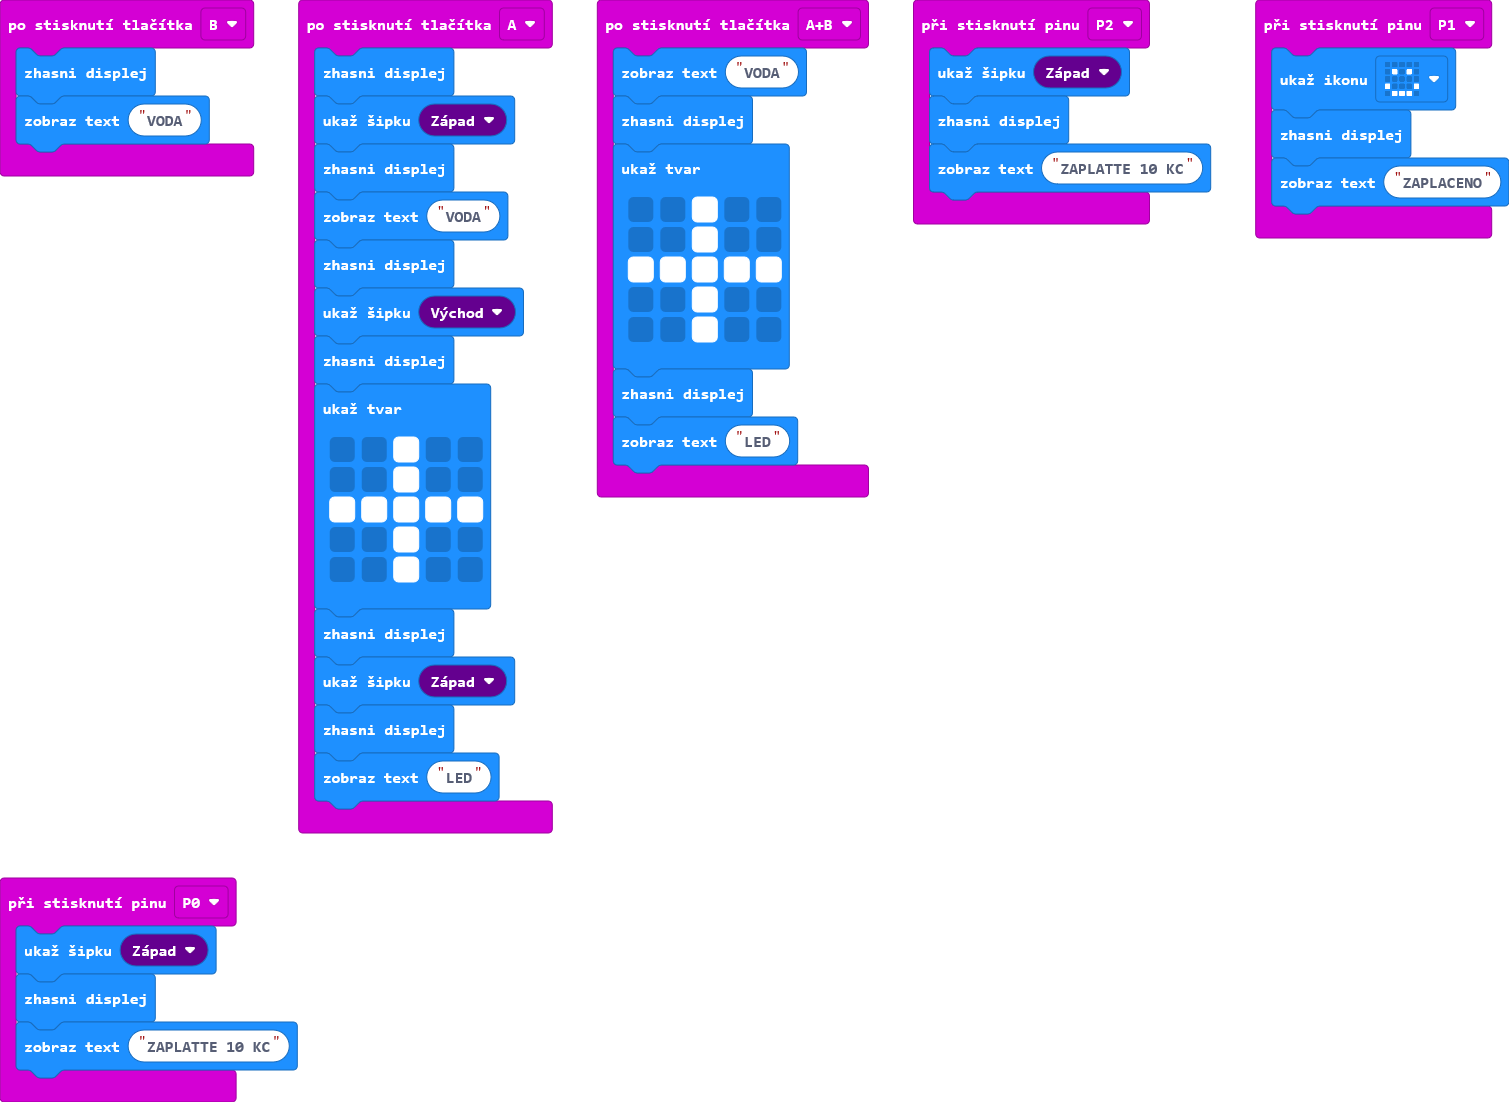
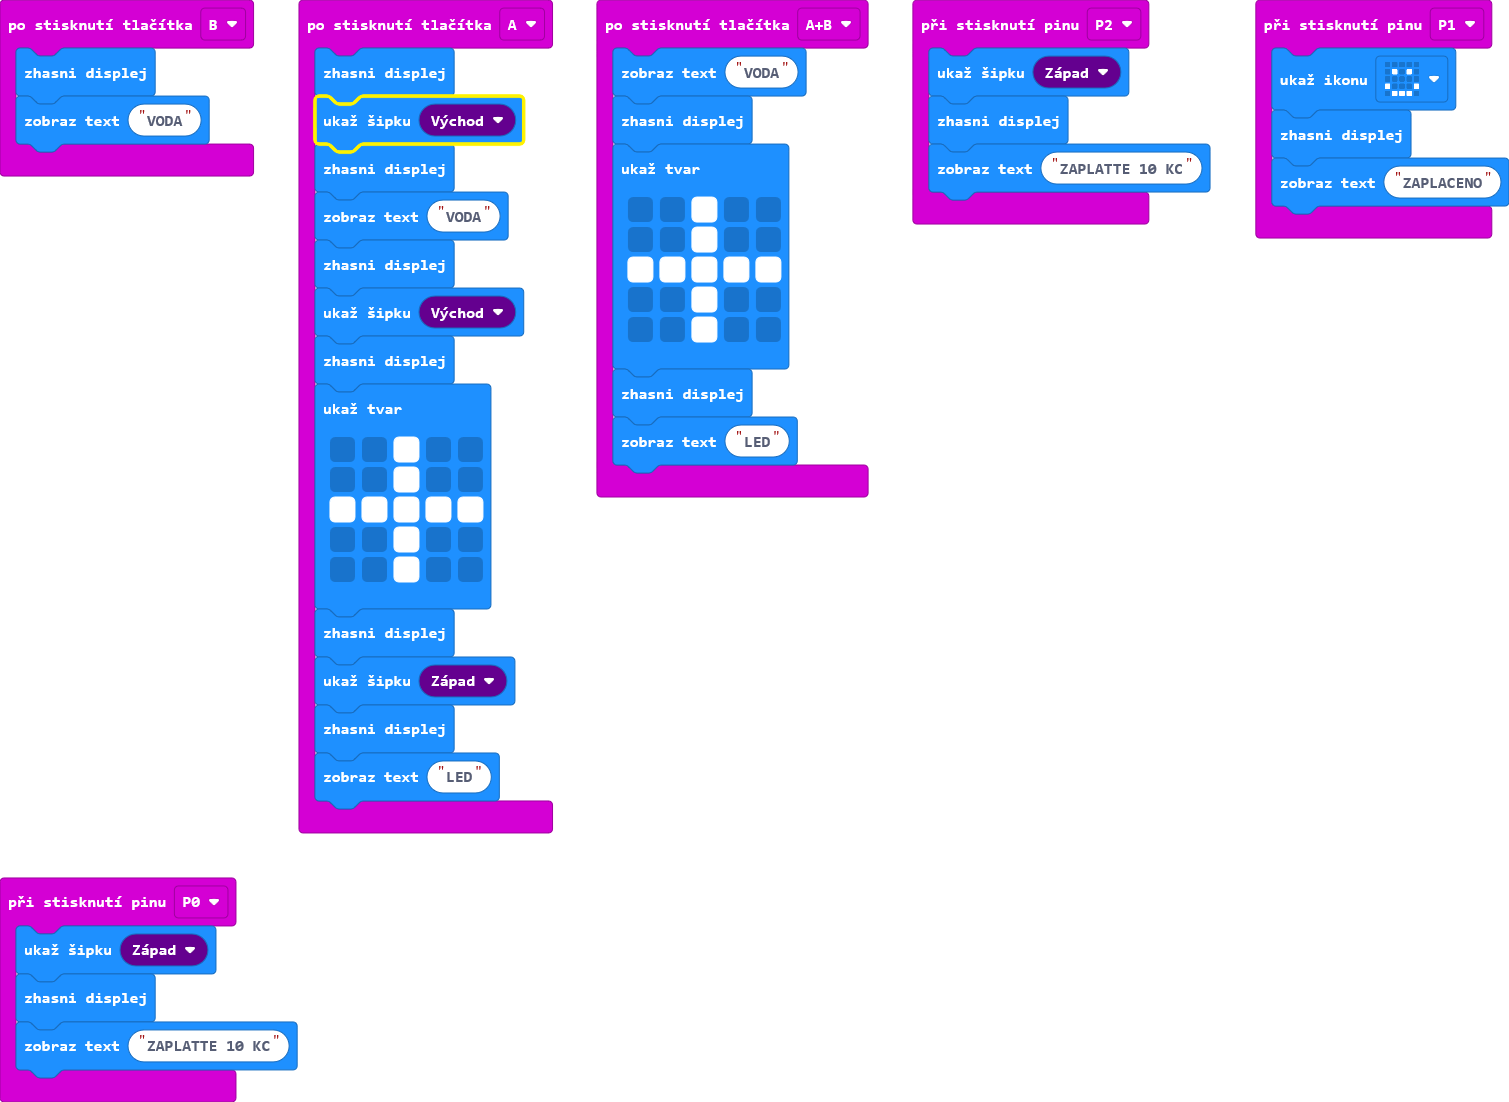
Aktualizovat main.blocks, main.ts

diff --git a/main.ts b/main.ts
@@ -5,7 +5,7 @@ input.onPinPressed(TouchPin.P0, function () {
 })
 input.onButtonPressed(Button.A, function () {
     basic.clearScreen()
-    basic.showArrow(ArrowNames.West)
+    basic.showArrow(ArrowNames.East)
     basic.clearScreen()
     basic.showString("VODA")
     basic.clearScreen()
